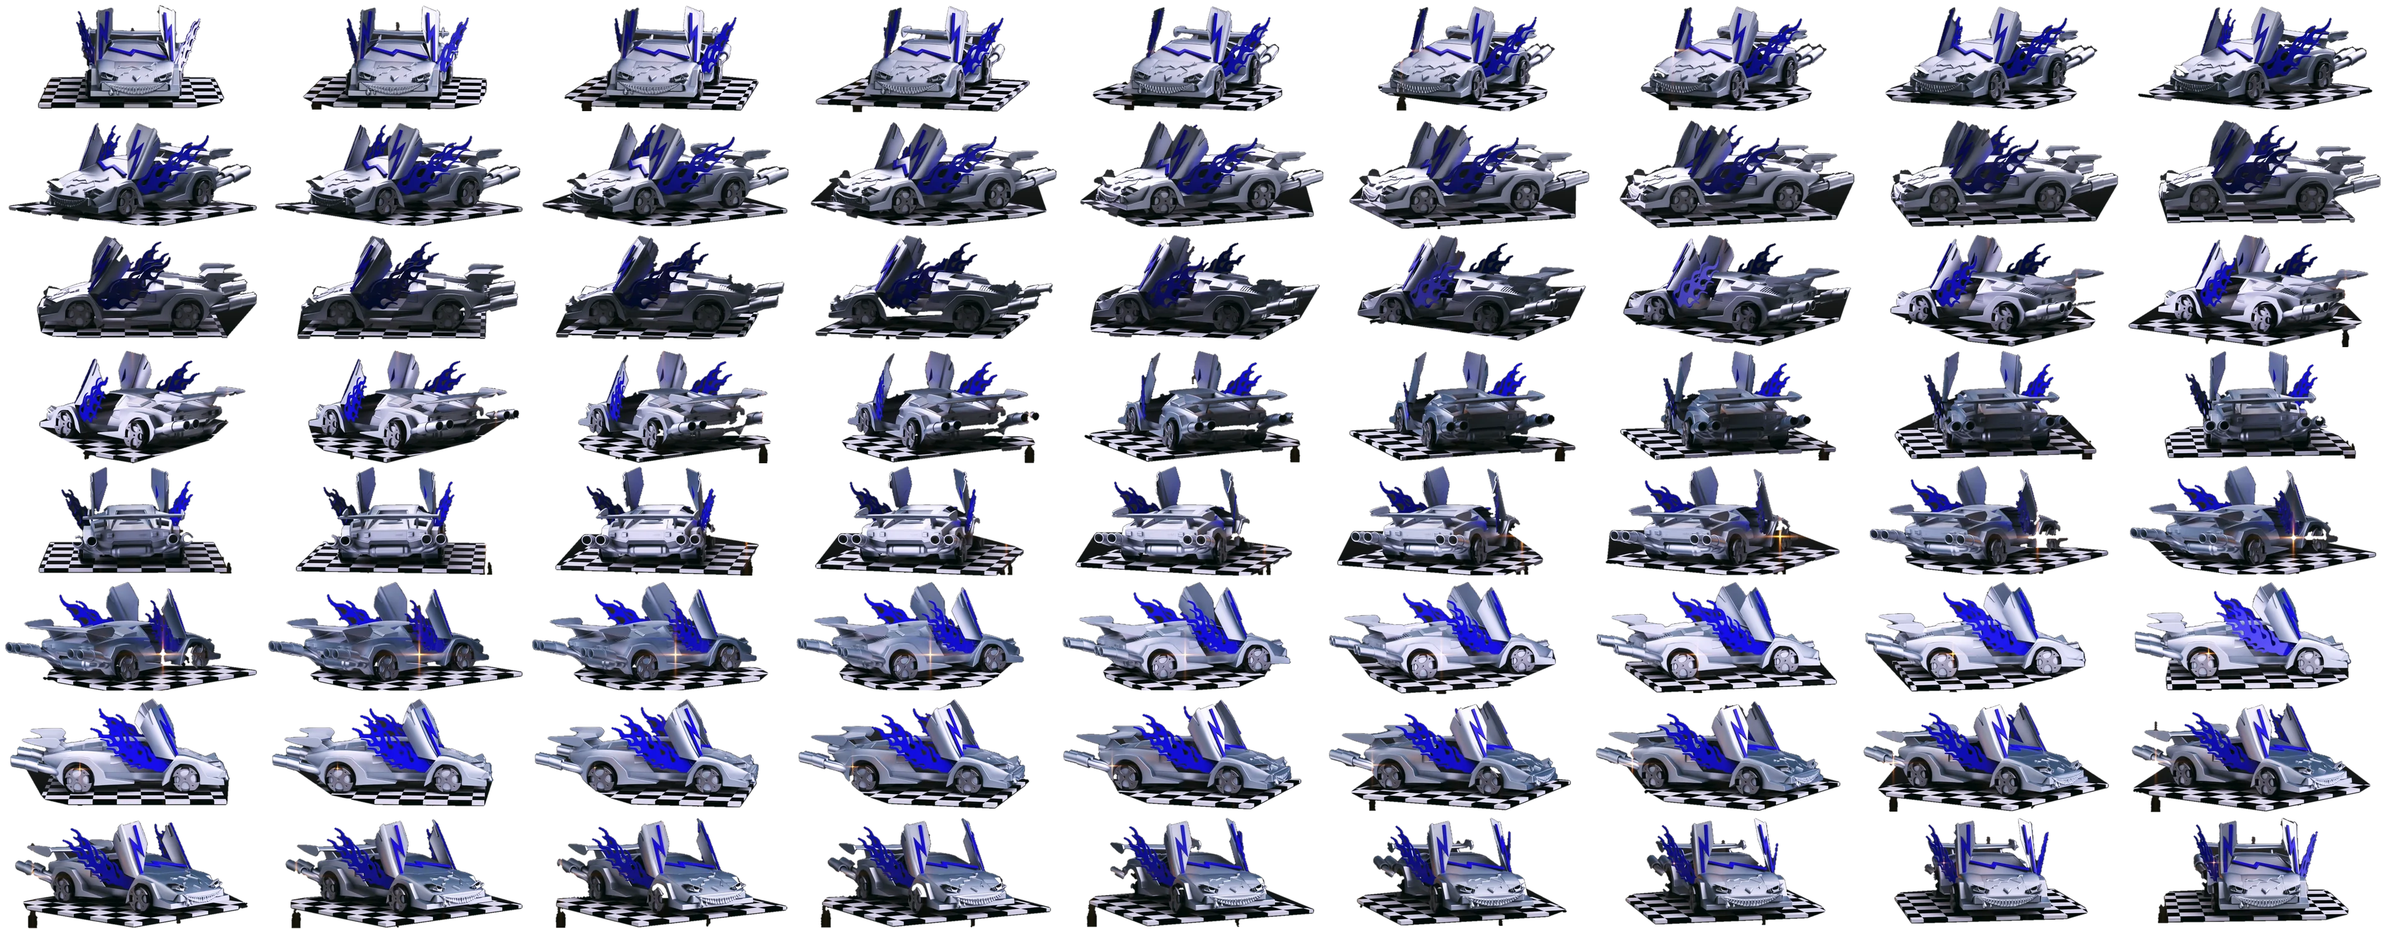
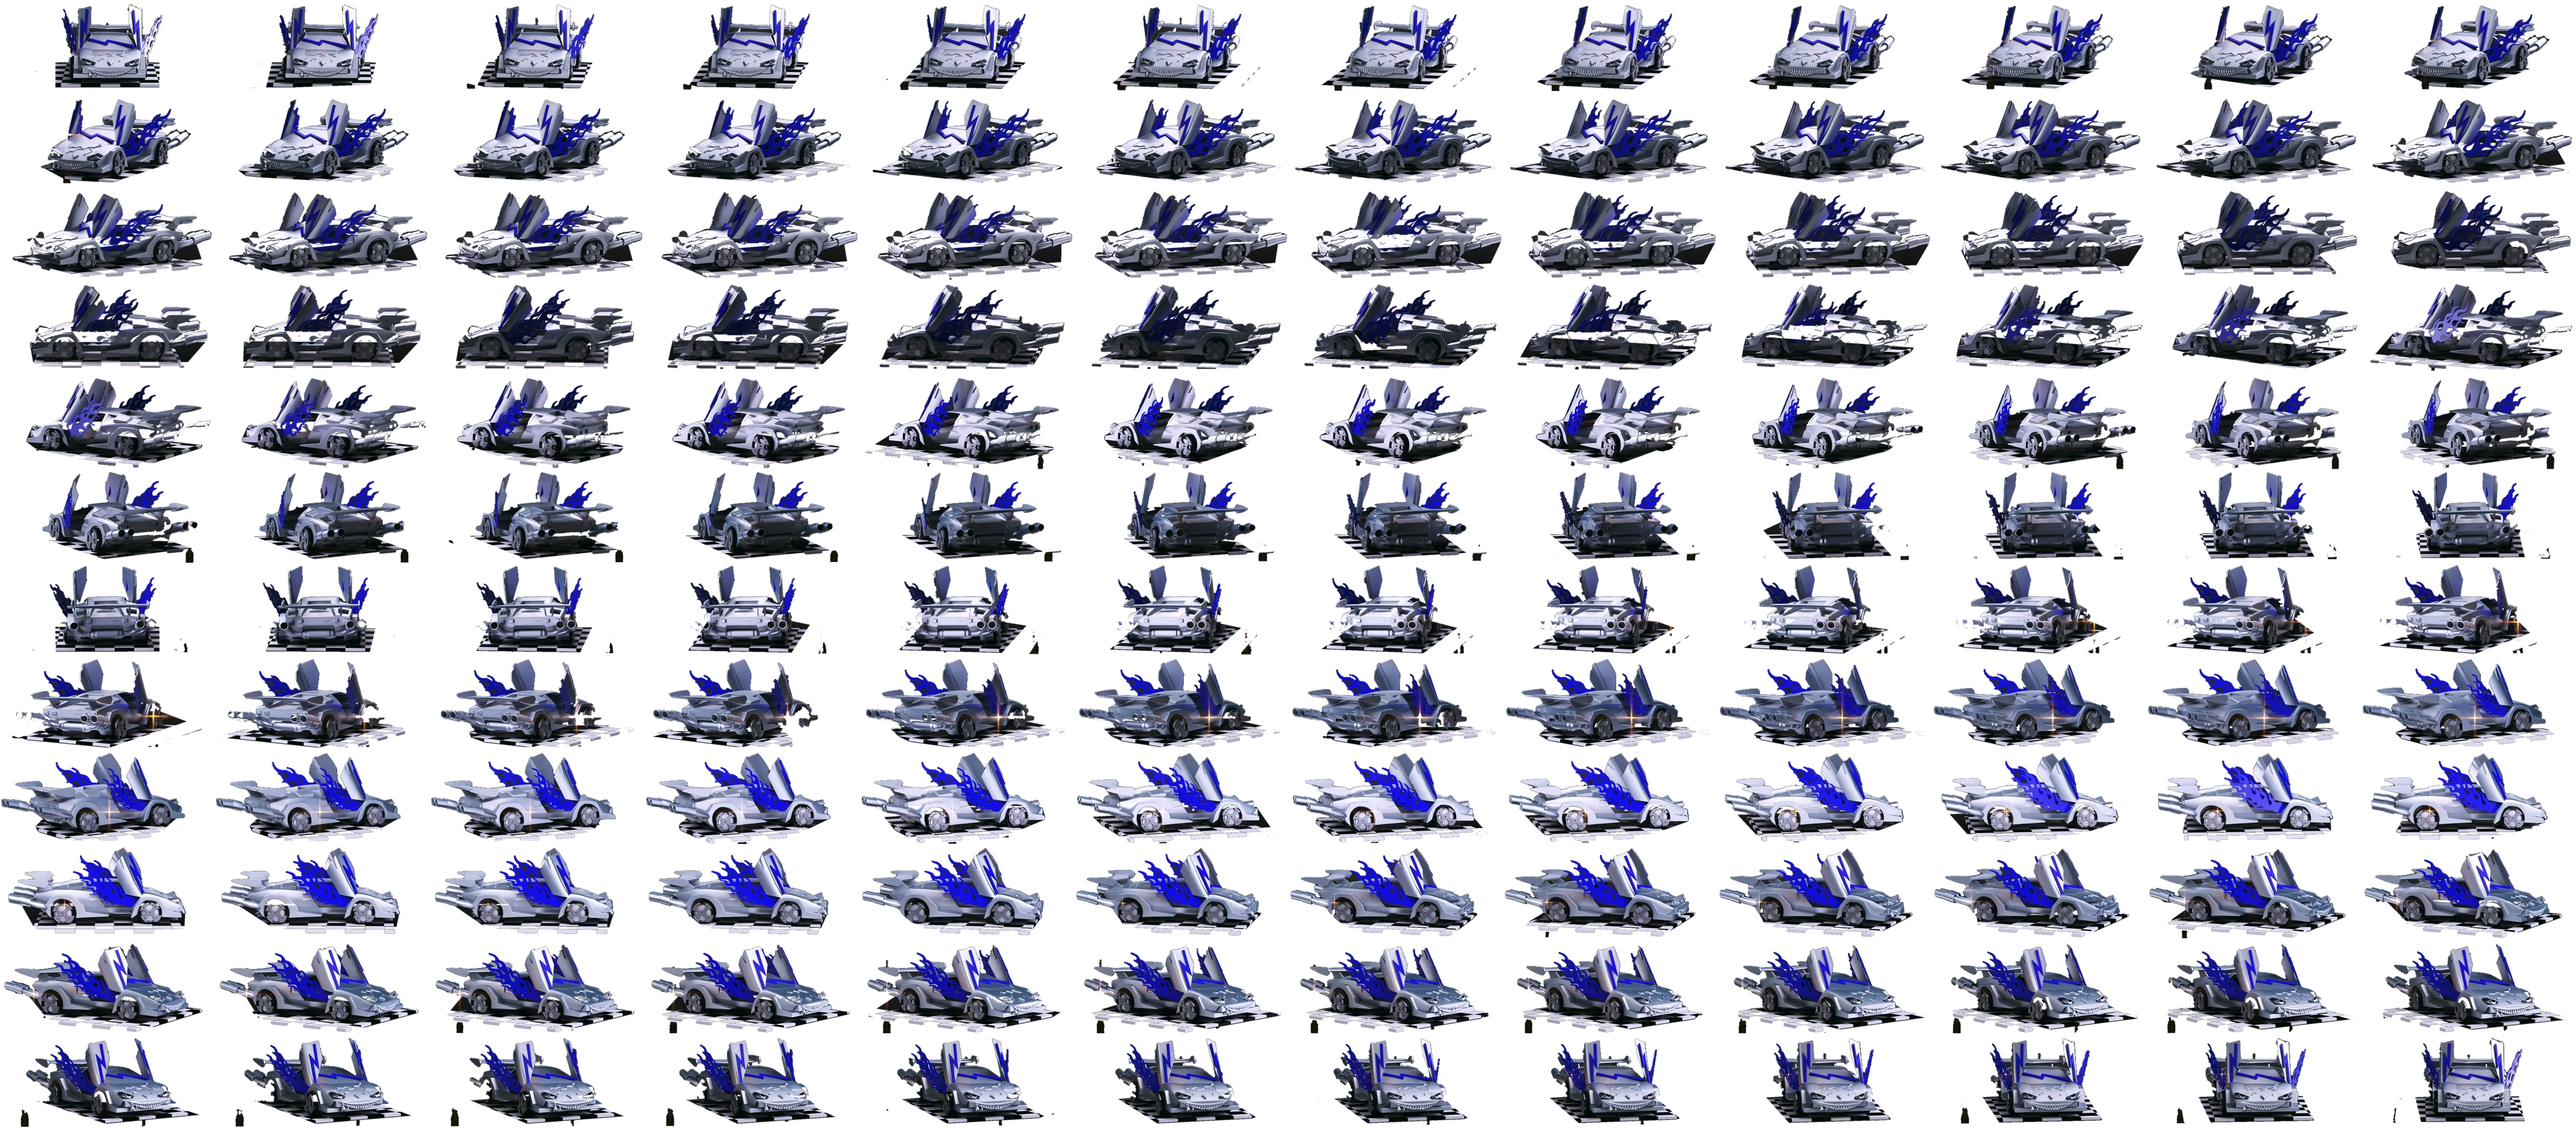
CHAPEL: car floor trimmed at the sides; 144 views blended so the car no longer jumps

diff --git a/YELLOW BOX/chapel/index.html b/YELLOW BOX/chapel/index.html
@@ -415,13 +415,20 @@ function build(){
     m.position.set(0,1.72,G.altarZ);cross={m,t,cols,rows,n:195,y:1.72};}
 
   /* the car from the video on its checkered floor, standing in the middle of the nave, front to the door.
-     The video is a full turntable (one turn in 540 frames); 72 of its views, one every 5 degrees, sit on one
-     sheet, and the car shows the view that matches where you stand, so it reads as an object from every side.
+     The video is a full turntable (one turn in 540 frames); 144 of its views, one every 2.5 degrees, sit on one
+     sheet, and the car shows the view that matches where you stand, blending smoothly between neighbours.
      Scale: the car is 4.27 m long; its floor reaches almost wall to wall and you can step onto it beside the car. */
-  {const cols=9,rows=8,n=72,ppm=708/4.27,w=848/ppm,h=371/ppm,ground=362;   // ground = the near edge of the checkered floor
-    const t=new THREE.TextureLoader().load('img/car-views.webp');t.encoding=THREE.sRGBEncoding;t.repeat.set(1/cols,1/rows);t.generateMipmaps=false;t.minFilter=THREE.LinearFilter;
-    const m=new THREE.Mesh(new THREE.PlaneGeometry(w,h),new THREE.MeshBasicMaterial({map:t,transparent:true,depthWrite:false,toneMapped:false,side:THREE.DoubleSide}));
-    m.position.set(0,h/2-(371-ground)/ppm,-L/2);scene.add(m);car={m,t,cols,rows,n};}
+  {const cols=12,rows=12,n=144,ppm=708/4.27,w=848/ppm,h=371/ppm,ground=362;   // ground = the near edge of the checkered floor
+    const t=new THREE.TextureLoader().load('img/car-views.webp');t.generateMipmaps=false;t.minFilter=THREE.LinearFilter;
+    // shown exactly as filmed: the sheet's colours go straight to the screen, two neighbouring views mixed
+    const mat=new THREE.ShaderMaterial({transparent:true,depthWrite:false,side:THREE.DoubleSide,
+      uniforms:{map:{value:t},o0:{value:new THREE.Vector2()},o1:{value:new THREE.Vector2()},k:{value:0},rep:{value:new THREE.Vector2(1/cols,1/rows)}},
+      vertexShader:'varying vec2 vUv;void main(){vUv=uv;gl_Position=projectionMatrix*modelViewMatrix*vec4(position,1.0);}',
+      fragmentShader:'uniform sampler2D map;uniform vec2 o0,o1,rep;uniform float k;varying vec2 vUv;'+
+        'void main(){vec2 u=vUv*rep*.996+rep*.002;vec4 a=texture2D(map,o0+u),b=texture2D(map,o1+u);'+
+        'float al=mix(a.a,b.a,k);if(al<.02)discard;vec3 c=(a.rgb*a.a*(1.-k)+b.rgb*b.a*k)/max(al,1e-4);gl_FragColor=vec4(c,al);}'});
+    const m=new THREE.Mesh(new THREE.PlaneGeometry(w,h),mat);
+    m.position.set(0,h/2-(371-ground)/ppm,-L/2);scene.add(m);car={m,mat,cols,rows,n};}
 
   /* slit windows and their light */
   const wmat=new THREE.MeshBasicMaterial({color:'#fffaf0',side:DS});
@@ -539,8 +546,9 @@ function frame(now){
   const bob=(f||s)?Math.sin(T*9)*.012:0;
   camera.position.set(cam.x,cam.y+bob,cam.z);camera.rotation.set(cam.pitch,cam.yaw,0);
   if(lantern)lantern.position.set(cam.x,cam.y+.3,cam.z);
-  if(car){const a=Math.atan2(cam.x-car.m.position.x,cam.z-car.m.position.z),i=((Math.round(a/(2*PI)*car.n)%car.n)+car.n)%car.n;
-    car.t.offset.set((i%car.cols)/car.cols,1-(Math.floor(i/car.cols)+1)/car.rows);car.m.rotation.y=a;}
+  if(car){const a=Math.atan2(cam.x-car.m.position.x,cam.z-car.m.position.z),f=((a/(2*PI)*car.n)%car.n+car.n)%car.n,i0=Math.floor(f)%car.n,i1=(i0+1)%car.n,
+      cell=(i,o)=>o.set((i%car.cols)/car.cols,1-(Math.floor(i/car.cols)+1)/car.rows);
+    cell(i0,car.mat.uniforms.o0.value);cell(i1,car.mat.uniforms.o1.value);car.mat.uniforms.k.value=f-Math.floor(f);car.m.rotation.y=a;}
   if(cross){const i=Math.floor(T*25)%cross.n;cross.t.offset.set((i%cross.cols)/cross.cols,1-(Math.floor(i/cross.cols)+1)/cross.rows);
     cross.m.position.y=cross.y+Math.sin(T*.7)*.06;cross.m.rotation.y=Math.atan2(cam.x-cross.m.position.x,cam.z-cross.m.position.z);}
   for(const c of candles){if(!c)continue;const fl=.82+.1*Math.sin(T*7.3+c.ph)+.06*Math.sin(T*13.1+c.ph*2)+.04*Math.sin(T*23+c.ph);c.pl.intensity=1.1*fl;c.sp.scale.set(.09*fl,.16*(.9+.2*fl),1);c.halo.material.opacity=.2*fl;}
